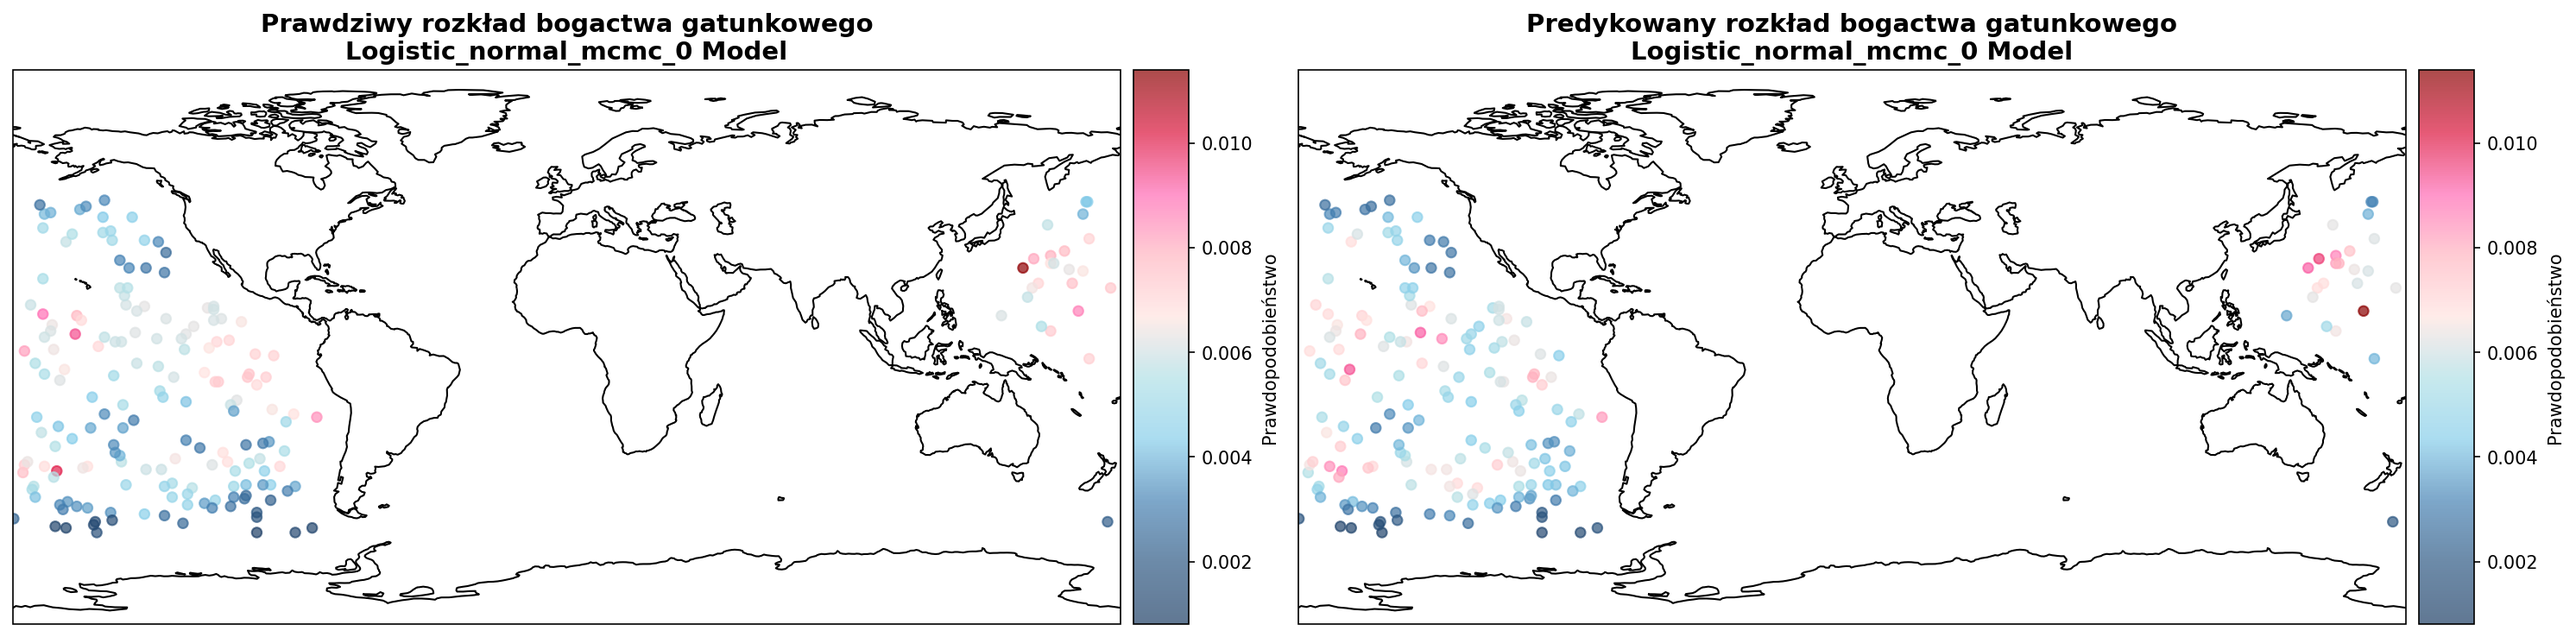
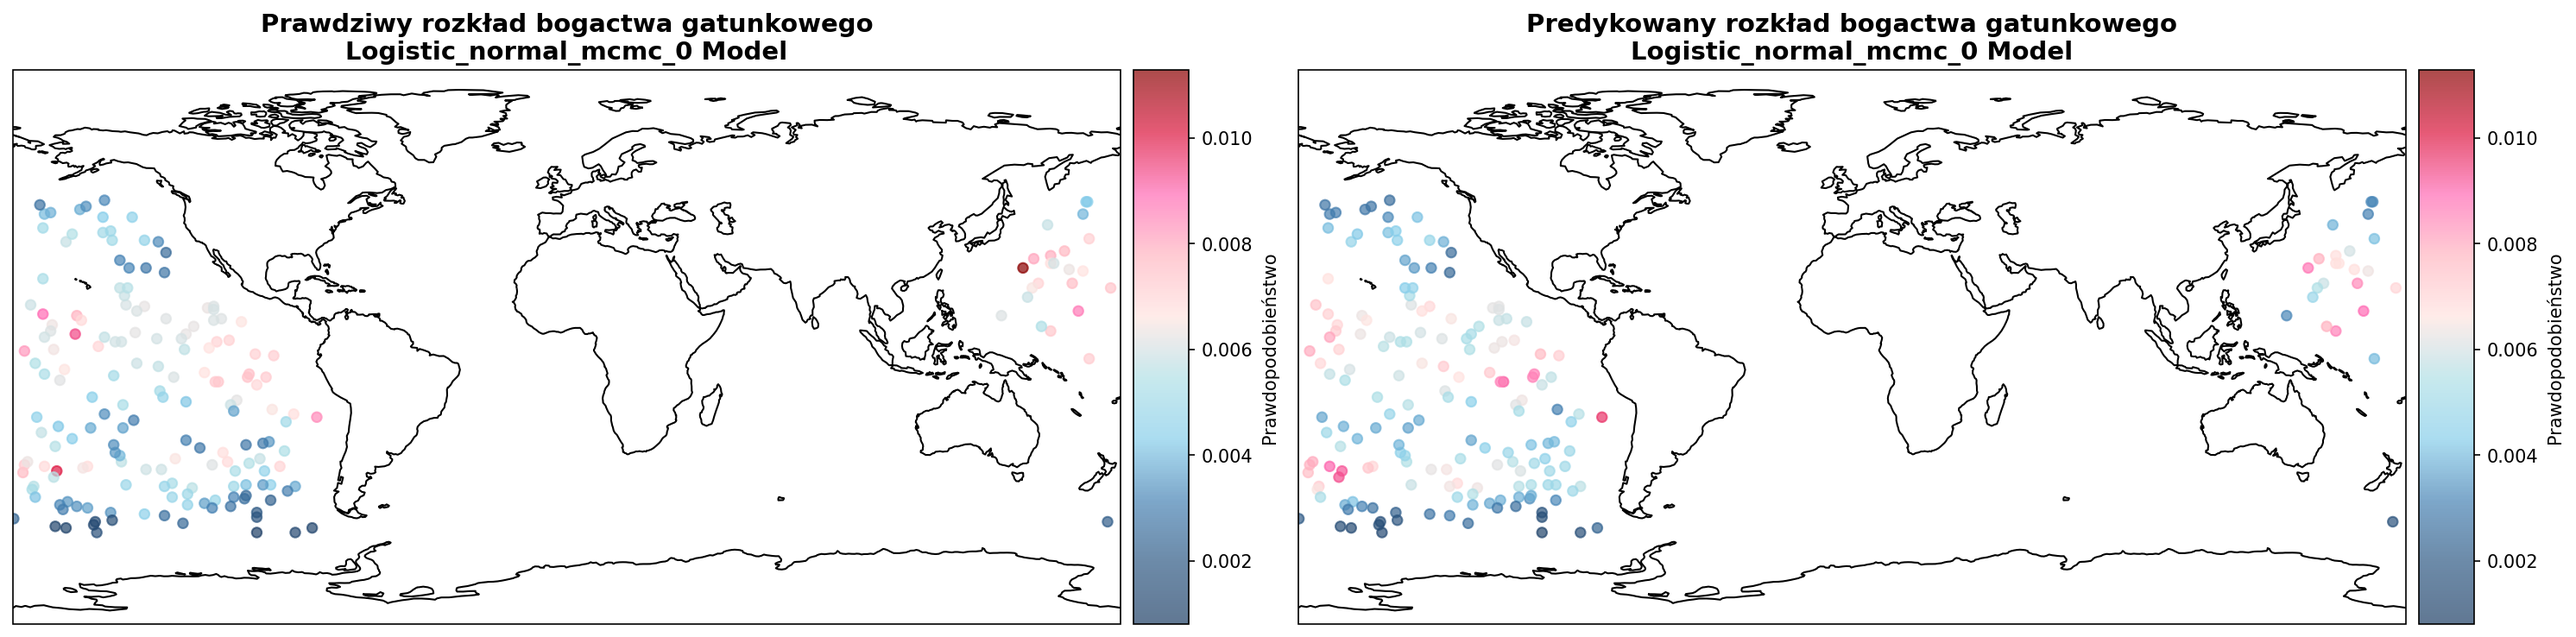
adaptive search

diff --git a/BayesianModelSystem/Modele/Lenk_adaptive_search_model.py b/BayesianModelSystem/Modele/Lenk_adaptive_search_model.py
@@ -1,0 +1,219 @@
+
+import numpy as np
+from .Lenks_model import LogisticNormalMCMC, log_posterior_logistic_normal_fast
+
+import numpy as np
+from scipy.linalg import solve_triangular
+from .Lenks_model import LogisticNormalMCMC, log_posterior_logistic_normal_fast
+
+class LenkAdaptiveSearchModel(LogisticNormalMCMC):
+    def __init__(self, space_points, metric_func, observed_indices,
+                 variance=1.0, distance_unit='km', mu_prior=0.0,
+                 start_ls=3000, step_size=2000, k_steps=3,
+                 num_samples_search=100, burn_in_search=50, 
+                 proposal_scale_search=0.05):
+        
+        # Initialize the parent with a placeholder lengthscale; it will be optimized.
+        super().__init__(space_points, metric_func, observed_indices, 
+                         lengthscale=1.0, variance=variance, 
+                         distance_unit=distance_unit, mu_prior=mu_prior)
+        
+        # Parameters for the adaptive search
+        self.start_ls = start_ls
+        self.step_size = step_size
+        self.k_steps = k_steps
+        self.num_samples_search = num_samples_search
+        self.burn_in_search = burn_in_search
+        self.proposal_scale_search = proposal_scale_search
+        
+        print(f"\n▶ [LENK-ADAPTIVE-SEARCH] Inicjalizacja:")
+        print(f"   - Start lengthscale: {start_ls}")
+        print(f"   - Step size: {step_size}")
+        print(f"   - Kroki bisekcji (k): {k_steps}")
+
+    def _evaluate_lengthscale(self, ls):
+        """Quickly evaluates a lengthscale for the LogisticNormalMCMC model."""
+        print(f"    [EVAL] ls={ls:.0f}")
+        try:
+            # Create covariance matrix directly
+            from scipy.spatial.distance import cdist
+            
+            # Calculate distances
+            if self.distance_unit == 'km':
+                distances = cdist(self.space_points, self.space_points, metric='euclidean')
+            elif self.distance_unit == 'latlon':
+                distances = np.zeros((len(self.space_points), len(self.space_points)))
+                for i in range(len(self.space_points)):
+                    for j in range(len(self.space_points)):
+                        distances[i, j] = self.metric(self.space_points[i], self.space_points[j])
+            else:
+                distances = cdist(self.space_points, self.space_points, metric=self.metric)
+            
+            # Create covariance matrix with jitter for numerical stability
+            K = self.variance * np.exp(-distances / ls)
+            n = K.shape[0]
+            jitter = 1e-8  # Small jitter for numerical stability
+            
+            # Add jitter to diagonal
+            K = K + np.eye(n) * jitter
+            
+            # Try Cholesky decomposition to check positive definiteness
+            try:
+                L = np.linalg.cholesky(K)
+            except np.linalg.LinAlgError:
+                print(f"    [EVAL-WARN] ls={ls:.0f}, Cholesky failed - increasing jitter")
+                K = K + np.eye(n) * 1e-6  # Add more jitter
+                try:
+                    L = np.linalg.cholesky(K)
+                except np.linalg.LinAlgError:
+                    print(f"    [EVAL-FAIL] ls={ls:.0f}, matrix not positive definite")
+                    return -np.inf
+            
+            # Calculate inverse using Cholesky decomposition
+            K_inv = np.linalg.inv(K)
+            
+            # Calculate log-determinant using Cholesky
+            log_det_K = 2 * np.sum(np.log(np.diag(L)))
+            
+            # Calculate normalization constant for prior
+            log_prior_norm_const = -0.5 * n * np.log(2 * np.pi) - 0.5 * log_det_K
+            
+            # Run a short MCMC with this covariance structure
+            samples = []
+            current_z = np.random.randn(n) * 0.1  # Start near zero
+            
+            for _ in range(self.num_samples_search + self.burn_in_search):
+                # Simple Metropolis-Hastings step
+                proposal = current_z + np.random.randn(n) * self.proposal_scale_search
+                
+                # Calculate log posterior for current and proposal
+                log_post_current = log_posterior_logistic_normal_fast(
+                    current_z, self.counts, self.N, 
+                    K_inv, log_prior_norm_const, self.mu_prior
+                )
+                log_post_proposal = log_posterior_logistic_normal_fast(
+                    proposal, self.counts, self.N, 
+                    K_inv, log_prior_norm_const, self.mu_prior
+                )
+                
+                # Accept/reject
+                if np.log(np.random.rand()) < (log_post_proposal - log_post_current):
+                    current_z = proposal
+                
+                # Store after burn-in
+                if _ >= self.burn_in_search:
+                    samples.append(current_z.copy())
+            
+            if not samples:
+                print(f"    [EVAL-FAIL] ls={ls:.0f}, no samples collected")
+                return -np.inf
+                
+            # Calculate the mean log-posterior of the generated samples
+            n_samples_for_eval = min(50, len(samples))
+            log_post_samples = []
+            
+            for z_sample in samples[:n_samples_for_eval]:
+                log_post = log_posterior_logistic_normal_fast(
+                    z_sample, self.counts, self.N, 
+                    K_inv, log_prior_norm_const, self.mu_prior
+                )
+                if np.isfinite(log_post):
+                    log_post_samples.append(log_post)
+            
+            mean_log_post = np.mean(log_post_samples) if log_post_samples else -np.inf
+            print(f"    [EVAL-OK] ls={ls:.0f}, score={mean_log_post:.2f}")
+            return mean_log_post
+            
+        except Exception as e:
+            print(f"    [EVAL-ERROR] ls={ls:.0f}: {str(e)[:100]}...")
+            return -np.inf
+
+    def przygotuj_apriori(self):
+        """
+        Overrides the parent method to perform an adaptive search for the optimal
+        lengthscale before calling the final prior preparation.
+        """
+        print("▶ [ADAPTIVE SEARCH] Rozpoczynanie poszukiwania optymalnego 'lengthscale'...")
+        
+        # Ensure we have counts data
+        if not hasattr(self, 'counts') or self.counts is None:
+            raise ValueError("Counts data must be set before preparing prior")
+        
+        # --- PHASE 1: Coarse Grid Search ---
+        print(f"\n📌 FAZA 1: Szukanie zgrubnego optimum (krok = {self.step_size})")
+        print("-" * 50)
+        
+        current_ls = self.start_ls
+        current_score = self._evaluate_lengthscale(current_ls)
+        
+        # Search upwards
+        for i in range(10):  # Limit to 10 steps for safety
+            next_ls = current_ls + self.step_size
+            next_score = self._evaluate_lengthscale(next_ls)
+            
+            if next_score > current_score:
+                current_ls = next_ls
+                current_score = next_score
+                print(f"  ↑ Lepsze ls={current_ls:.0f}, score={current_score:.2f}")
+            else:
+                # Score dropped, we probably passed the peak
+                break
+        
+        best_ls = current_ls
+        best_score = current_score
+
+        print(f"\n✅ ZGRUBNE OPTIMUM: ls={best_ls:.0f}, score={best_score:.2f}")
+        
+        # --- PHASE 2: Bisection/Fine-tuning Search ---
+        if self.k_steps > 0:
+            print(f"\n📌 FAZA 2: {self.k_steps} kroków bisekcji dla 'lengthscale'")
+            print("-" * 50)
+            
+            current_step = self.step_size
+            for k in range(1, self.k_steps + 1):
+                current_step /= 2.0
+                print(f"\n  🔄 KROK BISEKCJI {k}/{self.k_steps} (step = {current_step:.0f}):")
+                
+                # Test left, center, and right points
+                test_points = [
+                    max(100, best_ls - current_step),  # Ensure ls > 0
+                    best_ls,
+                    best_ls + current_step
+                ]
+                
+                # Remove duplicates
+                test_points = list(set(test_points))
+                test_points.sort()
+                
+                print(f"    Testowane punkty: {[f'{p:.0f}' for p in test_points]}")
+                
+                # Evaluate all test points
+                scores = {}
+                for ls in test_points:
+                    scores[ls] = self._evaluate_lengthscale(ls)
+                
+                # Find the best lengthscale among the tested points
+                new_best_ls = max(scores, key=scores.get)
+                new_best_score = scores[new_best_ls]
+                
+                if new_best_score > best_score:
+                    improvement = new_best_score - best_score
+                    print(f"    ✅ Znaleziono lepszy ls: {new_best_ls:.0f} "
+                          f"(poprawa: {improvement:.2f})")
+                    best_ls = new_best_ls
+                    best_score = new_best_score
+                else:
+                    print(f"    ℹ  Najlepszy ls pozostaje: {best_ls:.0f}")
+
+        # Set the found optimal lengthscale
+        self.lengthscale = best_ls
+        print("\n" + "=" * 60)
+        print(f"🎯 KONIEC OPTYMALIZACJI 'lengthscale'")
+        print(f"   Finalny 'lengthscale': {self.lengthscale:.0f}")
+        print(f"   Finalny score: {best_score:.2f}")
+        print("=" * 60 + "\n")
+        
+        # Now, call the original przygotuj_apriori from the parent class
+        # with the optimized lengthscale.
+        print("▶ [APRIORI] Finalne przygotowanie modelu z optymalnym 'lengthscale'...")
+        super().przygotuj_apriori()

diff --git a/BayesianModelSystem/TestMenager/test_manager.py b/BayesianModelSystem/TestMenager/test_manager.py
@@ -16,6 +16,7 @@ from ..Modele import (
     BayesianFieldModelAdaptiveSearchBinary,
     BayesianFieldModelCVGridSearch,
     LogisticNormalMCMC,
+    LenkAdaptiveSearchModel,
     DirichletModel, 
     BayesianGaussianProcess, 
     BayesianSpatialSmoothing
@@ -144,6 +145,29 @@ class TestManager:
                         }
                         model = BayesianFieldModelAdaptiveSearchBinary(**constructor_params)
                         model.przygotuj_apriori() # This will run the binary adaptive search
+                        model.przygotuj_predykcyjny(
+                            num_samples=model_params.get('mcmc_samples', 5000),
+                            burn_in=model_params.get('mcmc_burn', 3000),
+                            proposal_scale=model_params.get('mcmc_scale', 0.05),
+                            seed=model_params.get('mcmc_seed', 42) + test_number
+                        )
+                        pred = model.posterior_mean()
+                    elif model_name == 'lenk_adaptive':
+                        print(f"\n--- MODEL: {model_display_name.upper()} ---")
+                        constructor_params = {
+                            'space_points': points, 'metric_func': haversine, 'observed_indices': obs_idx,
+                            'variance': model_params.get('variance', 1.0),
+                            'distance_unit': model_params.get('distance_unit', 'km'),
+                            'mu_prior': model_params.get('mu_prior', 0.0),
+                            'start_ls': model_params.get('start_ls', 1000),
+                            'step_size': model_params.get('step_size', 2000),
+                            'k_steps': model_params.get('k_steps', 3),
+                            'num_samples_search': model_params.get("num_samples_search", 100),
+                            'burn_in_search': model_params.get("burn_in_search", 50),
+                            'proposal_scale_search': model_params.get("proposal_scale_search", 0.05)
+                        }
+                        model = LenkAdaptiveSearchModel(**constructor_params)
+                        model.przygotuj_apriori() # This will run the adaptive search
                         model.przygotuj_predykcyjny(
                             num_samples=model_params.get('mcmc_samples', 5000),
                             burn_in=model_params.get('mcmc_burn', 3000),
@@ -589,7 +613,8 @@ class TestManager:
         
         model_colors = {'bayesian': 'b', 'dirichlet': 'r', 
                        'gaussian': 'g', 'spatial': 'm', 'bayesian_gridsearch': 'c',
-                        'bayesian_adaptive_search_binary': 'y', 'logistic_normal_mcmc': 'purple'}
+                        'bayesian_adaptive_search_binary': 'y', 'logistic_normal_mcmc': 'purple',
+                        'lenk_adaptive': 'black'}
         
         ax = axes[0, 0]
         mse_plotted = False

diff --git a/BayesianModelSystem/config/default_params.py b/BayesianModelSystem/config/default_params.py
@@ -11,6 +11,20 @@ def get_configuration():
             'n_points': 0
         },
         'models_to_test': [
+             ('lenk_adaptive', {
+                'variance': 1.0,
+                'distance_unit': "km",
+                'start_ls': 800,
+                'step_size': 800,
+                'k_steps': 6,
+                'num_samples_search': 300,
+                'burn_in_search': 150,
+                'proposal_scale_search': 0.05,
+                'mcmc_samples': 5000,
+                'mcmc_burn': 3000,
+                'mcmc_scale': 0.05,
+                'mcmc_seed': 42
+             }),
              ('logistic_normal_mcmc', {
                 'lengthscale': 1750,
                 'variance': 1.0,
@@ -33,14 +47,28 @@ def get_configuration():
             #('spatial', {'smoothing_factor': 0.1})
         ],
         'impact_models_to_test': [
-            ('bayesian', {
-                'lengthscale': 5000,
-                'variance': 1.0,
-                'distance_unit': "km",
-                'mcmc_samples': 5000,
-                'mcmc_burn': 3000,
-                'mcmc_scale': 0.05,
-            }),
+            ('lenk_adaptive', {
+                 'variance': 1.0,
+                 'distance_unit': "km",
+                 'start_ls': 8000,
+                 'step_size': 8000,
+                 'k_steps': 6,
+                 'num_samples_search': 300,
+                 'burn_in_search': 150,
+                 'proposal_scale_search': 0.05,
+                 'mcmc_samples': 5000,
+                 'mcmc_burn': 3000,
+                 'mcmc_scale': 0.05,
+                 'mcmc_seed': 42
+             }),
+            # ('bayesian', {
+            #     'lengthscale': 5000,
+            #     'variance': 1.0,
+            #     'distance_unit': "km",
+            #     'mcmc_samples': 5000,
+            #     'mcmc_burn': 3000,
+            #     'mcmc_scale': 0.05,
+            # }),
            # ('bayesian_adaptive_search_binary', {
            #      'variance': 1.0,
            #      'distance_unit': "km",
@@ -68,5 +96,5 @@ def get_configuration():
         ],
         'n_tests': 2,
         'save_results': False,
-        'run_options': {"rt": False, "it": True}
+        'run_options': {"rt":False, "it": True}
     }

diff --git a/BayesianModelSystem/program.py b/BayesianModelSystem/program.py
@@ -1,7 +1,7 @@
 """This module contains the main program logic."""
 from .TestMenager.test_manager import TestManager
 
-def program(base_params, n_tests, csv_path, models_to_test=None, save_results=False, run_options={"rt":False,"it":False}, impact_models_to_test=None, k=10):
+def program(base_params, n_tests, csv_path, models_to_test=None, save_results=False, run_options={"rt":False,"it":False}, impact_models_to_test=None, k=3):
     """Main program function."""
     print("================================================")
     print("🎯 SYSTEM TESTOWANIA MODELI BAYESOWSKICH")
@@ -9,6 +9,7 @@ def program(base_params, n_tests, csv_path, models_to_test=None, save_results=Fa
     
     if models_to_test is None:
         models_to_test = [
+            ('lenk_adaptive', {}),
             ('bayesian', {
                 'lengthscale': base_params['lengthscale'],
                 'variance': base_params['variance'],
@@ -35,6 +36,7 @@ def program(base_params, n_tests, csv_path, models_to_test=None, save_results=Fa
     if run_options["it"]:
         if impact_models_to_test is None:
             impact_models_to_test = [
+                ('lenk_adaptive', {}),
                 ('bayesian', {
                     'lengthscale': base_params['lengthscale'],
                     'variance': base_params['variance'],

diff --git a/BayesianModelSystem/Modele/__init__.py b/BayesianModelSystem/Modele/__init__.py
@@ -3,6 +3,7 @@ from .bayesian_field_model import BayesianFieldModel
 from .bayesian_adaptive_search_model import BayesianFieldModelAdaptiveSearchBinary
 from .bayesian_field_grid_model import BayesianFieldModelCVGridSearch
 from .Lenks_model import LogisticNormalMCMC
+from .Lenk_adaptive_search_model import LenkAdaptiveSearchModel
 from .dirichlet_model import DirichletModel
 from .gaussian_process import BayesianGaussianProcess
 from .spatial_smoothing import BayesianSpatialSmoothing
@@ -12,6 +13,7 @@ __all__ = [
     "BayesianFieldModelAdaptiveSearchBinary",
     "BayesianFieldModelCVGridSearch",
     "LogisticNormalMCMC",
+    "LenkAdaptiveSearchModel",
     "DirichletModel",
     "BayesianGaussianProcess",
     "BayesianSpatialSmoothing"
